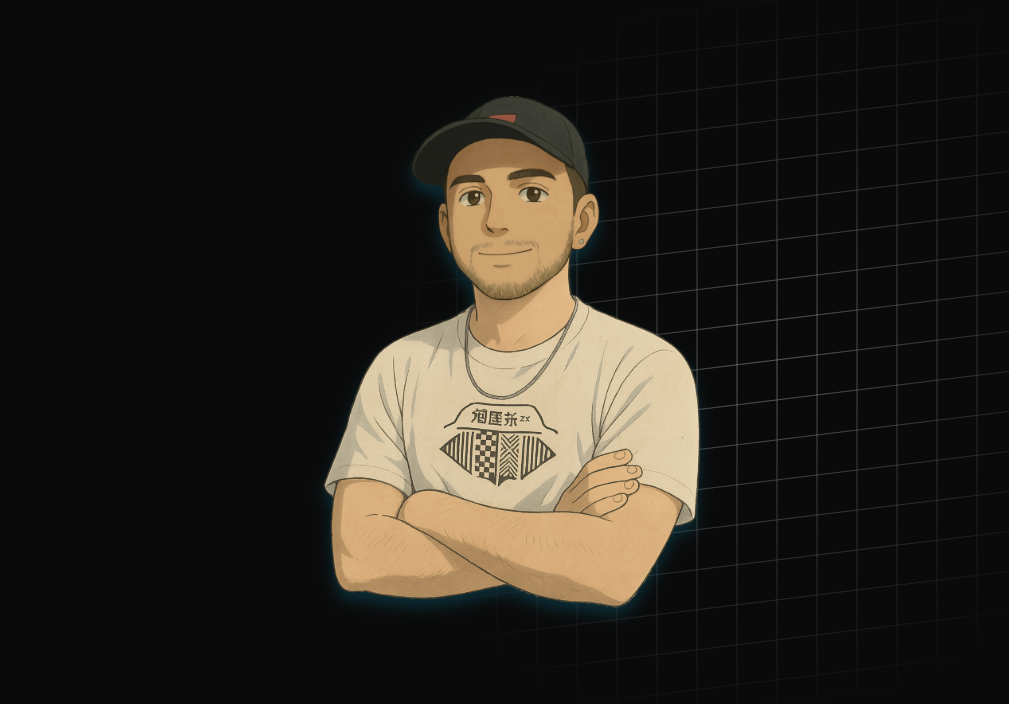
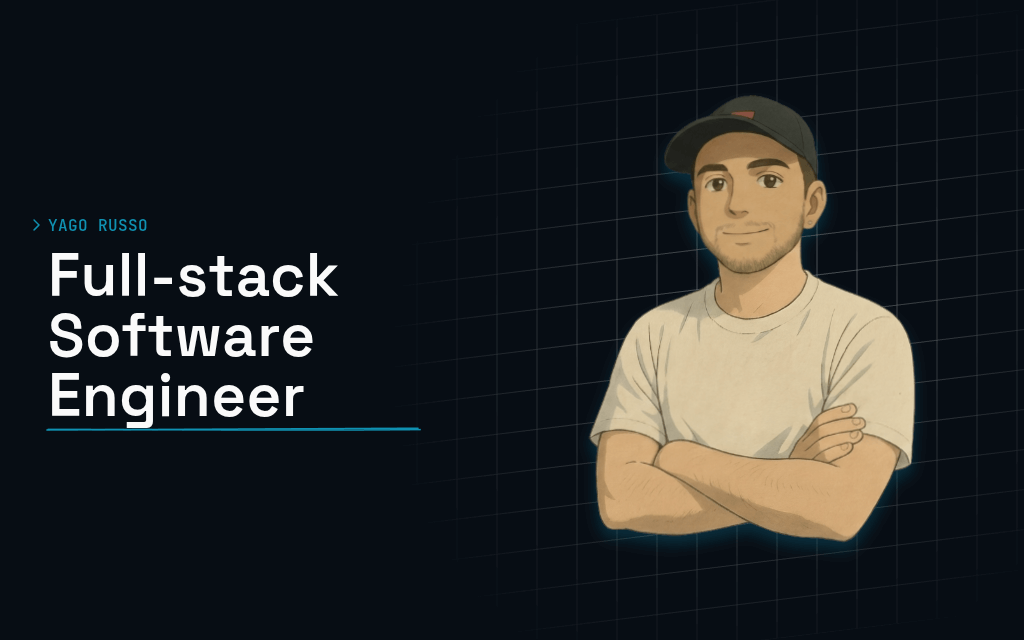
feat: update project display limit in ClientPage component from 1 to 3

diff --git a/src/app/[locale]/page-client.tsx b/src/app/[locale]/page-client.tsx
@@ -210,7 +210,7 @@ export function ClientPage() {
           </Button>
         </AnimateOnScroll>
         {findAllProjects.data?.findAllProjects
-          .slice(0, 1)
+          .slice(0, 3)
           ?.map((proj, index) => (
             <AnimateOnScroll key={proj.id} y={16}>
               <ProjectCard
